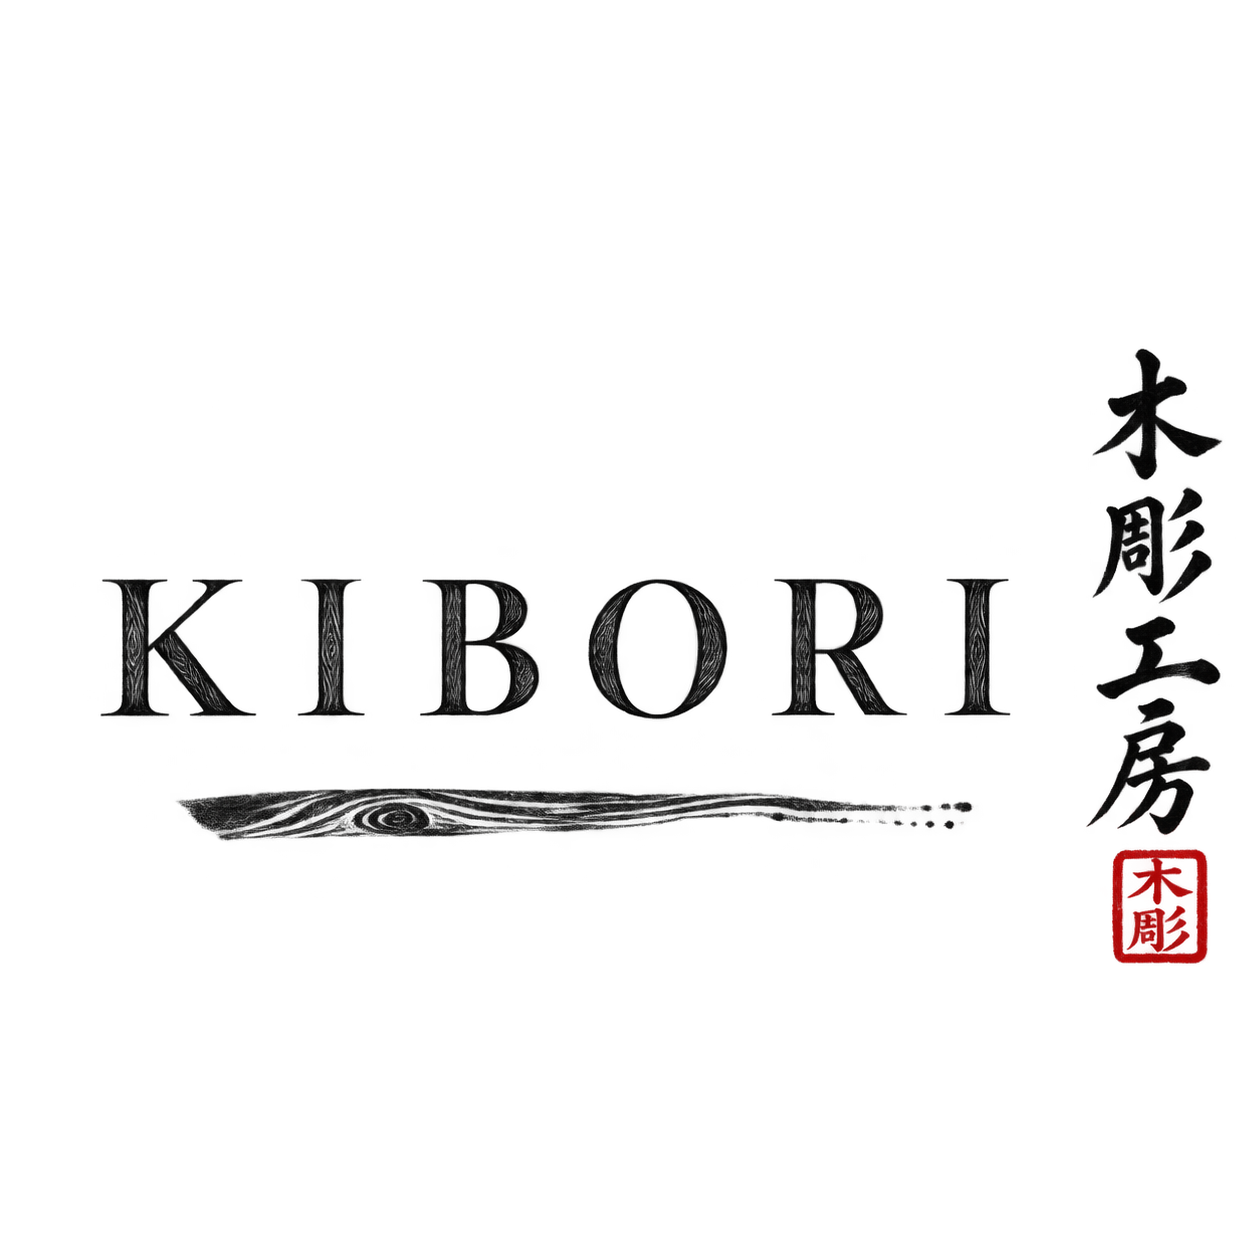
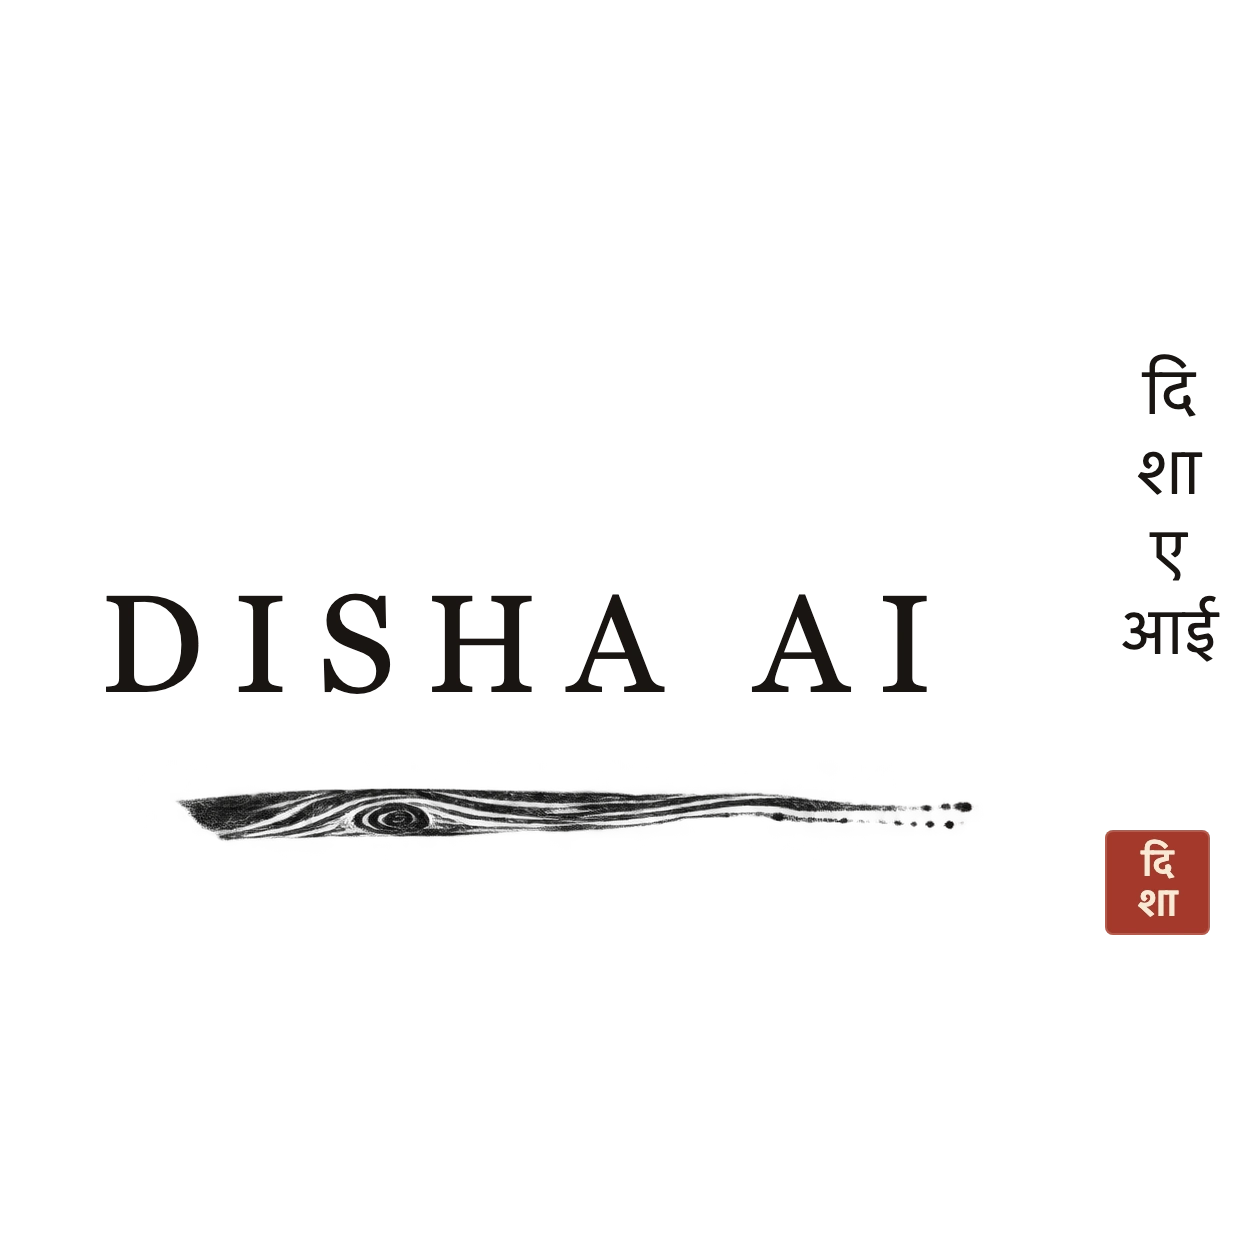
fix(landing): resolve devanagari character overlapping, update index titles, and replace artwork branding with Disha AI

diff --git a/dishaai/public/landing-pages/kibori.html b/dishaai/public/landing-pages/kibori.html
@@ -145,6 +145,9 @@ window.__kbBoot = 'self.window = self; self.onmessage = e => { const d = e.data 
 }
 
 </style>
+<link rel="preconnect" href="https://fonts.googleapis.com">
+<link rel="preconnect" href="https://fonts.gstatic.com" crossorigin>
+<link href="https://fonts.googleapis.com/css2?family=Noto+Serif+Devanagari:wght@400;600;700&display=swap" rel="stylesheet">
 <style>
   :root{
     --ink:#f2ece2;
@@ -152,7 +155,7 @@ window.__kbBoot = 'self.window = self; self.onmessage = e => { const d = e.data 
     --hair:rgba(242,236,226,.16);
     --sans:"Inter",-apple-system,BlinkMacSystemFont,"Helvetica Neue",Arial,sans-serif;
     --serif:"Instrument Serif",Georgia,"Times New Roman",serif;
-    --mincho:"Shippori Mincho","Hiragino Mincho ProN","Yu Mincho",serif;
+    --mincho:"Noto Serif Devanagari","Shippori Mincho","Hiragino Mincho ProN","Yu Mincho",serif;
   }
   *{margin:0;padding:0;box-sizing:border-box;font-weight:normal}
   html,body{height:100%}
@@ -331,8 +334,8 @@ window.__kbBoot = 'self.window = self; self.onmessage = e => { const d = e.data 
      keeps clear of it */
   @media (min-width:821px){
     .big.stack{flex-wrap:nowrap;align-items:flex-start}
-    .big.stack em{writing-mode:vertical-rl;transform:translateY(.02em);letter-spacing:.06em;
-      font-size:clamp(28px,4.2vw,82px);line-height:1}
+    .big.stack em{writing-mode:vertical-rl;transform:translateY(.02em);letter-spacing:.22em;
+      font-size:clamp(28px,4.2vw,82px);line-height:1.25}
   }
   /* a soft dark halo under the kanji, which are thin and cross lit paper
      and pale timber; the Latin is heavy enough without. It belongs to each
@@ -672,7 +675,7 @@ window.__kbBoot = 'self.window = self; self.onmessage = e => { const d = e.data 
 <div id="kindle">
   <canvas id="kindle-gl" aria-hidden="true"></canvas>
   <div class="kindle-label" role="progressbar" aria-label="Loading the workshop"
-       aria-valuemin="0" aria-valuemax="100" aria-valuenow="0"><span>Kindling</span><b>0</b></div>
+       aria-valuemin="0" aria-valuemax="100" aria-valuenow="0"><span>Loading</span><b>0</b></div>
 </div>
 <script>
 (() => {
@@ -1655,7 +1658,7 @@ ${EDGE}
   if (here){ initGL(); warmUp(); requestAnimationFrame(loop); }
 
   /* Slow connections: say so rather than burning quietly forever. */
-  const slow = setTimeout(() => { if (alive && target < 0.4) label.querySelector('span').textContent = 'Still kindling'; }, 12000);
+  const slow = setTimeout(() => { if (alive && target < 0.4) label.querySelector('span').textContent = 'Still loading'; }, 12000);
 
   window.__kbLoad = {
     t0,
@@ -1873,10 +1876,10 @@ ${EDGE}
         </div>
         <figure class="workshop-art">
           <div class="atelier-mark">
-            <img crossorigin="anonymous" class="atelier-seal" data-src="https://ublctyddhtbgaersvxxb.supabase.co/storage/v1/object/public/threeui-media/scene-images/kibori/9632d913de9cae7ff0868e7a483fbd4cd919a539c840e5f8541a74935fb5136c.webp" width="1254" height="1254"
+            <img crossorigin="anonymous" class="atelier-seal" data-src="/landing-pages/kibori-assets/kibori-atelier-seal-v2.webp" width="1254" height="1254"
               alt="Disha AI — career guidance seal" decoding="async">
           </div>
-          <img crossorigin="anonymous" class="workshop-print" data-src="https://ublctyddhtbgaersvxxb.supabase.co/storage/v1/object/public/threeui-media/scene-images/kibori/dc88d8a5843d37abb762101b03b054bb92e81629b258b6749062173836f3e8b5.webp" width="1536" height="1024"
+          <img crossorigin="anonymous" class="workshop-print" data-src="/landing-pages/kibori-assets/kibori-workshop-print-v2.webp" width="1536" height="1024"
             alt="Students exploring career paths with AI guidance across India." decoding="async">
           <figcaption><span>Disha AI</span><span>India-wide</span></figcaption>
         </figure>
@@ -16340,12 +16343,12 @@ return TabletopPhysics;
  *  0.  Index copy — numbers and text
  * ============================================================= */
 const INDEX = [
-  ['01','Kumiko','組子'],    ['02','Seigaiha','青海波'], ['03','Kigumi','木組'],
-  ['04','Yakisugi','焼杉'],  ['05','Nomi','鑿'],        ['06','Urushi','漆'],
-  ['07','Sashimono','指物'], ['08','Kanna','鉋'],
+  ['01','Discover','दिशा'],    ['02','Explore','पाठ्यक्रम'], ['03','Analyse','कौशल'],
+  ['04','Unlock','योजना'],    ['05','Simulate','मार्ग'],    ['06','Support','परिवार'],
+  ['07','Connect','परामर्श'],  ['08','Track','प्रगति'],
 ];
 document.getElementById('index').innerHTML =
-  INDEX.map(([n,r,k],i) => `<u aria-hidden="true">${n}</u><a href="#${r.toLowerCase()}" data-go="${i}">${r}<i lang="ja">${k}</i></a>`).join('');
+  INDEX.map(([n,r,k],i) => `<u aria-hidden="true">${n}</u><a href="#${r.toLowerCase()}" data-go="${i}">${r}<i lang="hi">${k}</i></a>`).join('');
 const indexRows = Array.from(document.querySelectorAll('#index a'));
 
 /* ============================================================= *
@@ -23931,12 +23934,18 @@ function splitRun(host){
   const base = host.getBoundingClientRect();
   const node = gh.firstChild, range = document.createRange();
   const out = [];
-  for (let i = 0; i < text.length; i++){
-    if (text[i] === ' ') continue;
-    range.setStart(node, i); range.setEnd(node, i + 1);
+  const segs = typeof Intl !== 'undefined' && Intl.Segmenter
+    ? [...new Intl.Segmenter(undefined, { granularity: 'grapheme' }).segment(text)]
+    : text.split('').map((char, index) => ({ segment: char, index }));
+
+  for (const seg of segs){
+    if (!seg.segment || /^\s+$/.test(seg.segment)) continue;
+    range.setStart(node, seg.index);
+    range.setEnd(node, seg.index + seg.segment.length);
     const r = range.getBoundingClientRect();
     const l = document.createElement('span');
-    l.className = 'l'; l.textContent = text[i];
+    l.className = 'l';
+    l.textContent = seg.segment;
     l.setAttribute('aria-hidden', 'true');
     l.style.left = (r.left - base.left).toFixed(2) + 'px';
     l.style.top  = (r.top  - base.top ).toFixed(2) + 'px';
@@ -24729,8 +24738,16 @@ const lockupEl = document.getElementById('lockup');
 const lkGlyphs = [];
 {
   const wrap = (el, re, kind) => {
-    const parts = el.textContent.split(re);
+    if (!el) return;
+    const text = el.textContent;
     el.textContent = '';
+    let parts;
+    if (re.toString() === '/()/' && typeof Intl !== 'undefined' && Intl.Segmenter){
+      const seg = new Intl.Segmenter(undefined, { granularity: 'grapheme' });
+      parts = [...seg.segment(text)].map(s => s.segment);
+    } else {
+      parts = text.split(re);
+    }
     for (const t of parts){
       if (!t) continue;
       if (/^\s+$/.test(t)){ el.appendChild(document.createTextNode(t)); continue; }
@@ -25229,19 +25246,17 @@ function heroParts(group, anchor, margin){
     (o.visible && !o.isLight && box.containsBox(b.setFromObject(o))));
 }
 function inspectRegister(){
-  inspectable(0, heroParts(st1, kumikoLattice, 0.2), 'Asanoha panel', '組子', 'A thousand hinoki strips, and not one nail');
-  inspectable(1, heroParts(st2, reliefPanel, 0.25), 'Seigaiha board', '青海波', 'One sugi board, cut wave by wave');
-  inspectable(2, [jointBeam && jointBeam.parent], 'Wedged through-tenon', '込栓', 'Two timbers and a wedge — no glue, no steel');
-  for (const b of charBoards) inspectable(3, b, 'Yakisugi board', '焼杉', 'Cedar charred until the weather cannot get in');
-  inspectable(4, [nomiChisel], 'Oire-nomi', '鑿', 'Soft iron forge-welded to a sliver of hard steel');
-  for (const c of (nomiSet || [])) inspectable(4, [c.o], 'Oire-nomi', '鑿', 'Soft iron forge-welded to a sliver of hard steel');
-  inspectable(4, nomiClothParts.concat((nomiSet || []).map(c => c.o)), 'Dogu-maki', '道具巻', 'Indigo canvas, a sleeve for every blade', false, 0, [nomiClothParts[2]]);
-  inspectable(5, [urushiBowl, urushiFoot], 'Lacquered bowl', '漆', 'Forty coats, and gold dusted into the last', false, 0.79);
-  inspectable(5, [urushiBrush], 'Urushi hake', '刷毛', 'The hair runs the whole length of the body');
-  inspectable(6, st7.children.filter(o => !o.isLight), 'Tansu', '箪笥', 'Dovetailed, and the drawers fall on their own air', true);
-  /* tipped at most 45 degrees to the eye, as the bowl: tipped 70, its
-     translucent shaving was seen along its length, a streaky smear */
-  inspectable(7, [kannaPlane], 'Kanna', '鉋', 'Pulled toward you; the shaving comes off whole', false, 0.79);
+  inspectable(0, heroParts(st1, kumikoLattice, 0.2), 'Discover Path', 'दिशा', 'Explore careers matching your strengths and passions');
+  inspectable(1, heroParts(st2, reliefPanel, 0.25), 'Explore Courses', 'पाठ्यक्रम', 'Over 1,800 vocational and skill certifications across India');
+  inspectable(2, [jointBeam && jointBeam.parent], 'Skill Analysis', 'कौशल', 'Bridge the gap between current skills and career requirements');
+  for (const b of charBoards) inspectable(3, b, 'Govt Schemes', 'योजना', 'Scholarships, stipends, and subsidies available for you');
+  inspectable(4, [nomiChisel], 'Career Roadmap', 'मार्ग', 'Personalised step-by-step milestones to your goal');
+  for (const c of (nomiSet || [])) inspectable(4, [c.o], 'Career Roadmap', 'मार्ग', 'Personalised step-by-step milestones to your goal');
+  inspectable(4, nomiClothParts.concat((nomiSet || []).map(c => c.o)), 'Resource Toolkit', 'उपकरण', 'Practical resources and study material for exams');
+  inspectable(5, [urushiBowl, urushiFoot], 'Family Portal', 'परिवार', 'Guidance in Indian languages for parents and guardians');
+  inspectable(5, [urushiBrush], 'Support Network', 'सहयोग', 'Community mentors and expert advisors');
+  inspectable(6, st7.children.filter(o => !o.isLight), 'Counsellor Desk', 'परामर्श', 'Live chat with verified career counsellors');
+  inspectable(7, [kannaPlane], 'Progress Tracker', 'प्रगति', 'Real-time dashboard of applications and goals');
   /* lights light layer 1 as well, or the lifted item would go black */
   scene.traverse(o => { if (o.isLight) o.layers.enable(1); });
 }
